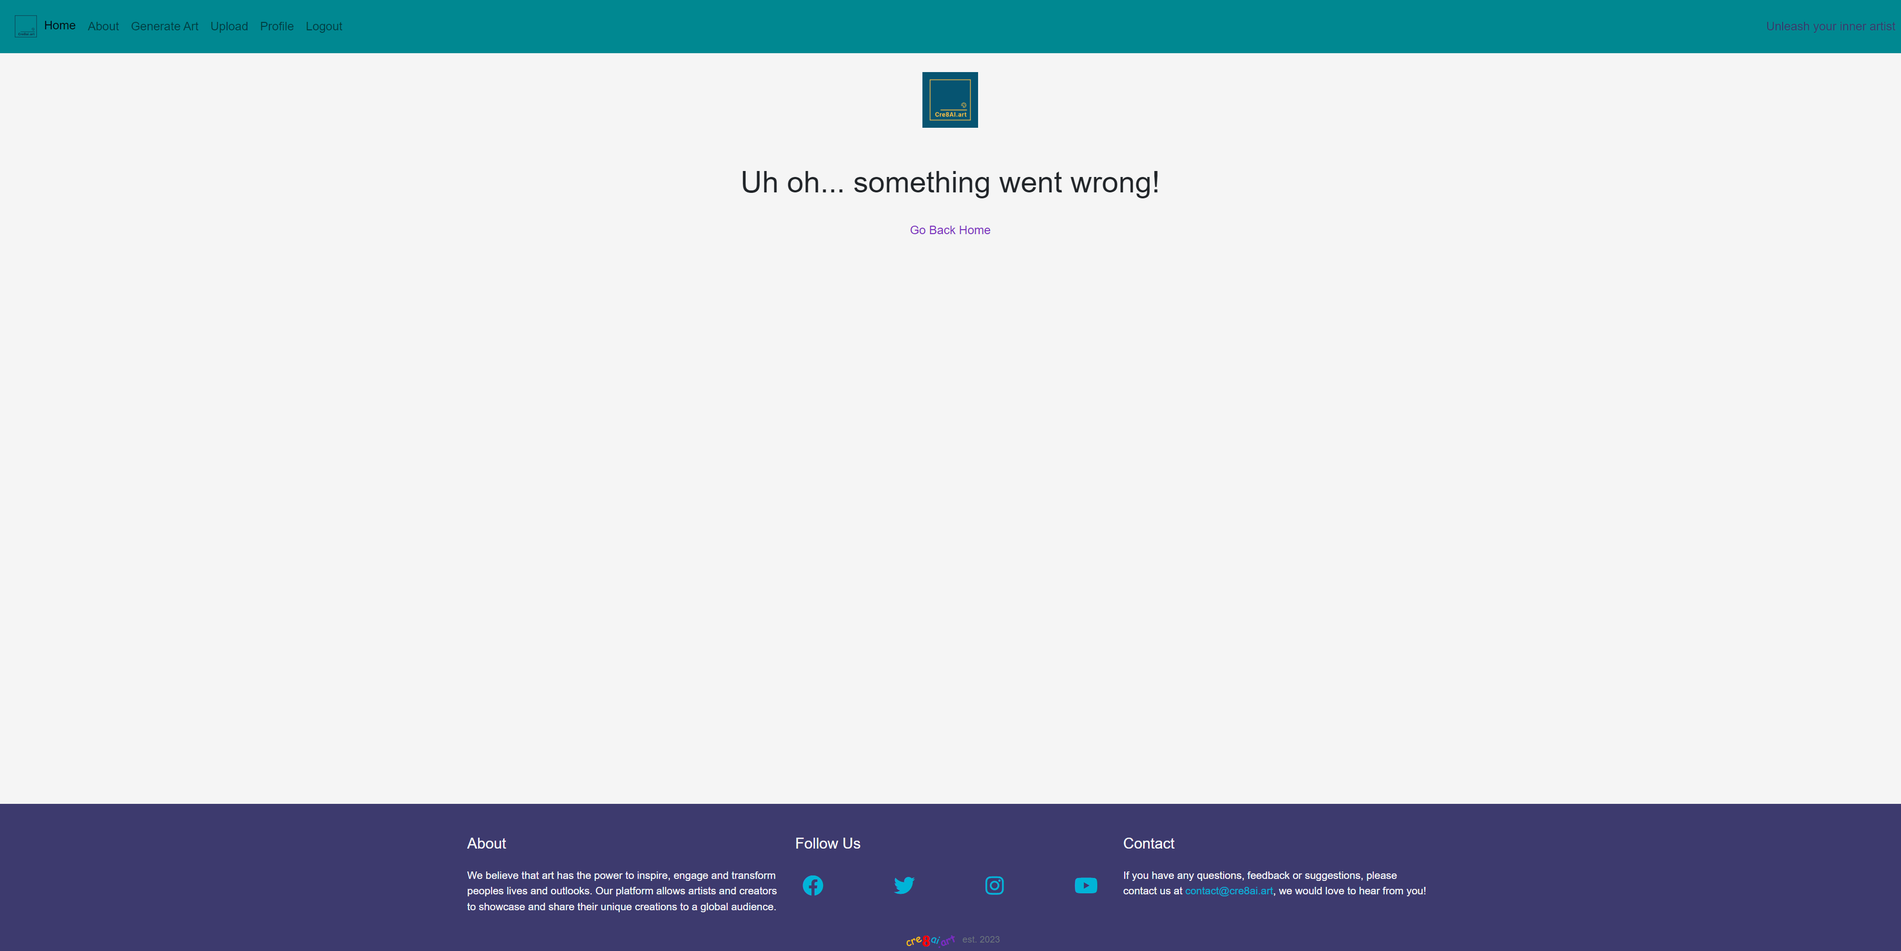
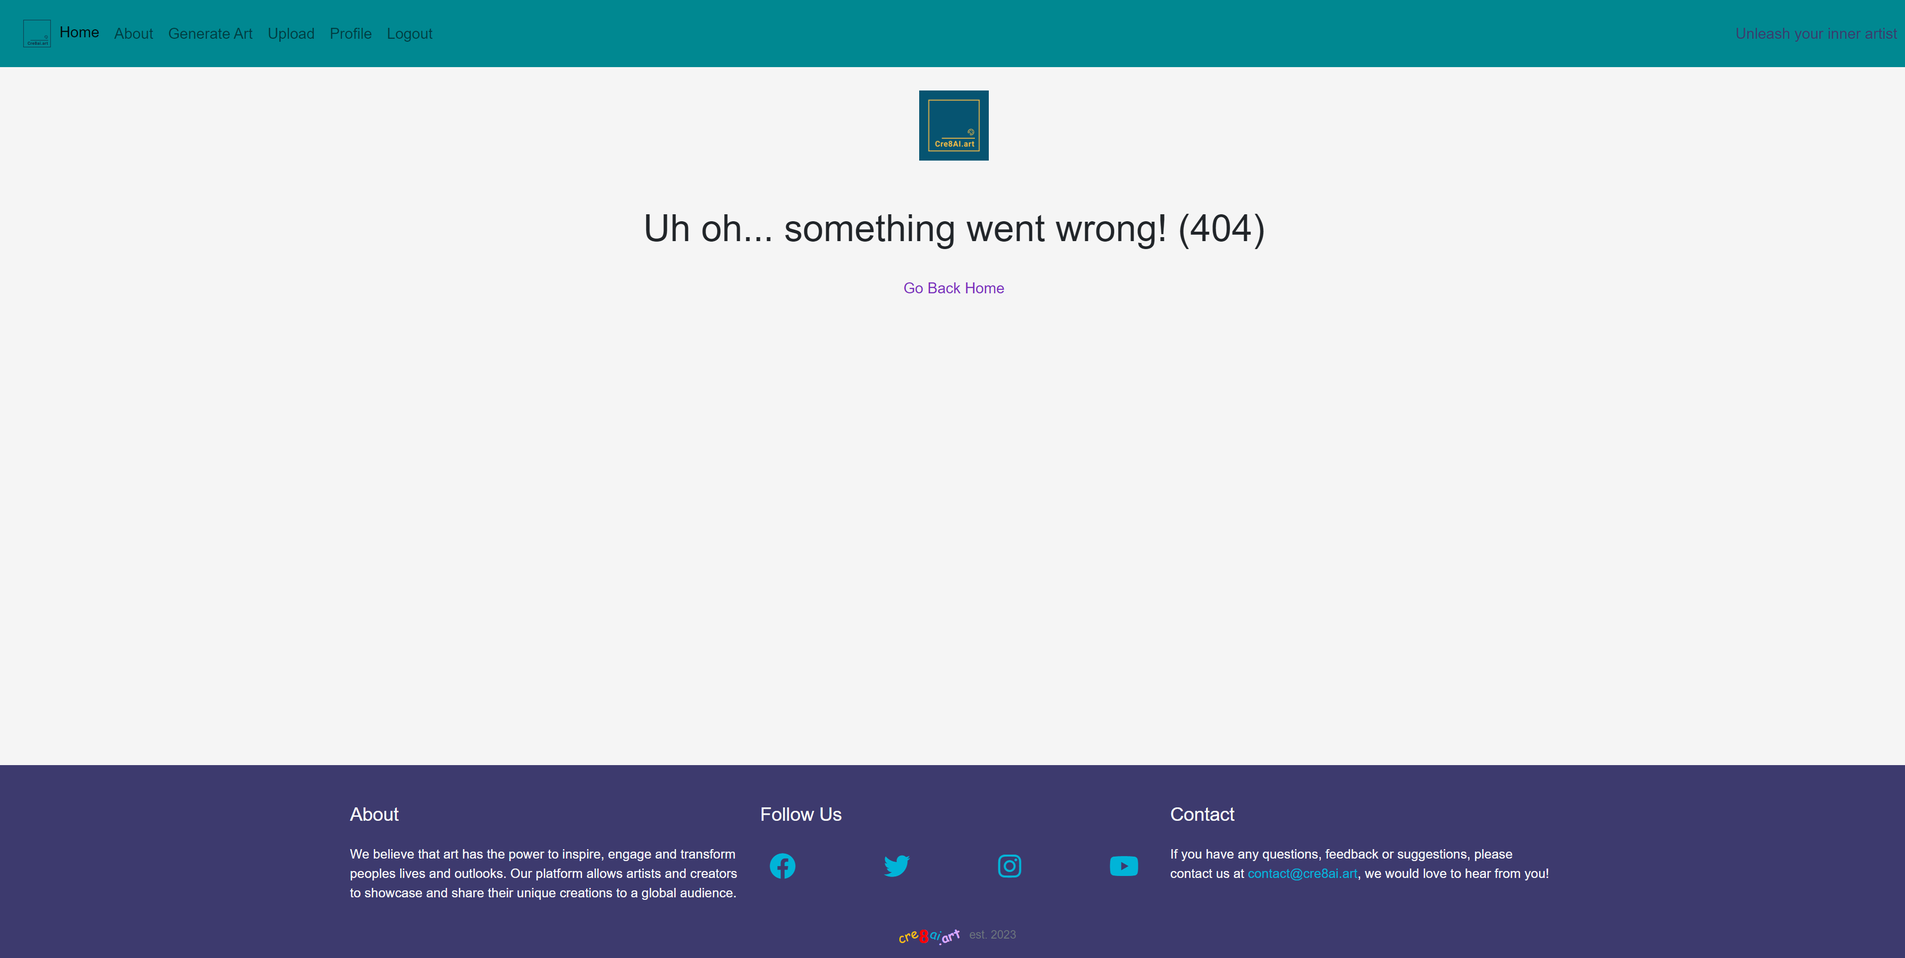
Add addtional testing to readme: Responsive and W3C

diff --git a/templates/user_profile.html b/templates/user_profile.html
@@ -44,9 +44,9 @@
                 {% for post in posts %}
                 {% if post.status == 1 %}
                 <div class="col-md-4 mb-3">
-                    <a href="{% url 'post_detail' post.slug %}">
-                        <img src="{{ post.post_image.url }}" alt="{{ post.title }}" class="img-thumbnail"
-                            oncontextmenu="return false;" aria-label="Go to {{ post.title }}">
+                    <a href="{% url 'post_detail' post.slug %}" aria-label="Go to {{ post.title }}">
+                        <img src="{{ post.post_image.url }}" alt="Image for {{ post.title }}" class="img-thumbnail"
+                            oncontextmenu="return false;">
                     </a>
                 </div>
                 {% endif %}
@@ -66,9 +66,9 @@
                 {% for post in posts %}
                 {% if post.status == 0 %}
                 <div class="col-md-4 mb-3">
-                    <a href="{% url 'post_private' post.slug %}">
-                        <img src="{{ post.post_image.url }}" alt="{{ post.title }}" class="img-thumbnail"
-                            oncontextmenu="return false;" aria-label="Go to {{ post.title }}">
+                    <a href="{% url 'post_private' post.slug %}" aria-label="Go to {{ post.title }}">
+                        <img src="{{ post.post_image.url }}" alt="Image for {{ post.title }}" class="img-thumbnail"
+                            oncontextmenu="return false;">
                     </a>
                 </div>
                 {% endif %}

diff --git a/templates/post_edit.html b/templates/post_edit.html
@@ -27,7 +27,8 @@
         <div class="col-md-12 card mb-4 mt-3 left top">
             <!-- Uploaded Image -->
             <div class="posted-image-container">
-                <img src="{{ post.post_image.url }}" class="posted-image" oncontextmenu="return false;">
+                <img src="{{ post.post_image.url }}" class="posted-image" oncontextmenu="return false;"
+                    alt="Image for {{ post.title }}">
             </div>
             <div class="card-body">
                 <!-- Current Post Description -->

diff --git a/templates/post_detail.html b/templates/post_detail.html
@@ -57,7 +57,8 @@
         <div class="col-md-12 card mb-4 mt-3 left top">
             <!-- Uploaded Image -->
             <div class="posted-image-container">
-                <img src="{{ post.post_image.url }}" class="posted-image" oncontextmenu="return false;">
+                <img src="{{ post.post_image.url }}" class="posted-image" oncontextmenu="return false;"
+                    alt="Image for {{ post.title }}">
             </div>
             <div class="card-body">
                 <!-- Image Description -->

diff --git a/ai_art/settings.py b/ai_art/settings.py
@@ -29,7 +29,7 @@ TEMPLATES_DIR = os.path.join(BASE_DIR, 'templates')
 SECRET_KEY = os.environ['SECRET_KEY']
 
 # SECURITY WARNING: don't run with debug turned on in production!
-DEBUG = True
+DEBUG = False
 
 X_FRAME_OPTIONS = 'SAMEORIGIN'
 

diff --git a/README.md b/README.md
@@ -563,109 +563,11 @@ You will need to import OpenAI and add the API key to your project.
 
 ### Custom Email Domain 📨 🌐
 
-<details> <summary>To avoid paying to use my custom web domain as an email domain, I found and followed the instructions in the following tutorial which explained how to set it up on Gmail for free: </summary> <img src="readme_images/setup/namecheapEmailPrices.png" style="max-width: 66%;"> </details>
+<details> <summary>To avoid paying to use the custom web domain as an email domain, I found and followed the instructions in the following tutorial which explained how to set it up on Gmail for free: </summary> <img src="readme_images/setup/namecheapEmailPrices.png" style="max-width: 66%;"> </details>
 
 | Link | Additional Set Up Requirements |
 | ---- | ------------------------------ |
 | [Youtube: Setting Up Free Custom Email Domain](https://www.youtube.com/watch?v=a322wIdQe4c) | Note the following required changes since this video was uploaded as described by Wiyre, the video uploader: _"For people watching this on June 2022 and up with authentification failed error, Less secure app Access is not available anymore, so here are the steps that worked for me: (1) you have to Go to Manage your Google Account - Security. (2) Then Enable 2-Step verifications. (3) Go to App password and select ''Mail'' and the device you are on (4) Click Generate and Note the password (it will show it only one time) (5) Go back to the login window where it says: ''Authentification failed, Please check...'' (6) Enter your login email, and as the password put the NEW PASSWORD google gave you on the App Password (7) Verify the code and voilà! Your done"_ |
-
----
-
-## Tests
-
-### Console
-
-I found no remaining console error during final testing.
-
-| **Page**     | **Picture**                                                                     |
-|--------------|---------------------------------------------------------------------------------|
-| **Home**     | ![Home](readme_images/tests/console/home.png)                                   |
-| **About**    | ![About](readme_images/tests/console/about.png)                                 |
-| **Generate** | ![Generate](readme_images/tests/console/generate.png)                           |
-| **Profile**  | ![Profile](readme_images/tests/console/profile.png)                             |
-| **Sign In**  | ![SignIn](readme_images/tests/console/signIn.png)                               |
-| **Sign Out** | ![SignOut](readme_images/tests/console/signOut.png)                             |
-| **Sign Up**  | ![SignUp](readme_images/tests/console/signUp.png)                               |
-| **Upload**   | ![Upload](readme_images/tests/console/upload.png)                               |
-
-
-### Lighthouse Tests
-
-Only minor errors remain. Accessibility could be easily improved by changing the colours for readability. Note, I made further updates to the Sign In, Sign Out and Sign Up pages to improve the below results but did not have a chance to retest.
-
-| **Page**         | **Performance** | **Accessibility** | **Best Practices** | **SEO**  | **Picture**                                                                                 |
-|------------------|-----------------|-------------------|--------------------|----------|---------------------------------------------------------------------------------------------|
-| **Home**         | 100             | 96                | 100                | 100      | ![Home](readme_images/tests/lighthouse/LDHome.png)                                          |
-| **About**        | 100             | 95                | 100                | 100      | ![About](readme_images/tests/lighthouse/LDAbout.png)                                        |
-| **Static**       | 100             | 92                | 100                | 100      | ![Static](readme_images/tests/lighthouse/LDStatic.png)                                      |
-| **Sign In**      | 100             | 96                | 100                | 100      | ![Sign In](readme_images/tests/lighthouse/LDSignIn.png)                                     |
-| **Sign Up**      | 100             | 96                | 100                | 90       | ![Sign Up](readme_images/tests/lighthouse/LDSignUp.png)                                     |
-| **Generate Art** | 100             | 96                | 100                | 100      | ![Generate Art](readme_images/tests/lighthouse/LDGenerateArt.png)                           |
-| **Upload**       | 100             | 96                | 100                | 100      | ![Upload](readme_images/tests/lighthouse/LDUpload.png)                                      |
-| **Profile**      | 96              | 95                | 100                | 100      | ![Profile](readme_images/tests/lighthouse/LDProfile.png)                                    |
-| **Sign Out**     | 100             | 95                | 100                | 100      | ![Sign Out](readme_images/tests/lighthouse/LDSignOut.png) 
-
-### Responsiveness Testing
-
-#### Visual Testing using Google Inspect
-
-| **Device**                   | **Width (px)** | **Height (px)** |
-|------------------------------|---------------|------------------|
-| **iPhone SE**                | 375           | 667              |
-| **iPhone XR**                | 414           | 896              |
-| **iPhone 12 Pro**            | 390           | 844              |
-| **Pixel 5**                  | 393           | 851              |
-| **Samsung Galaxy S8+**       | 360           | 740              |
-| **Samsung Galaxy S20 Ultra** | 412           | 915              |
-| **iPad Air**                 | 820           | 1180             |
-| **iPad Mini**                | 768           | 1024             |
-| **Surface Pro 7**            | 912           | 1368             |
-| **Galaxy Fold**              | 280           | 653              |
-| **Nest Hub**                 | 1024          | 600              |
-| **Nest Hub Max**             | 1280          | 800              |
-
-#### Visual Testing using AmIRepsponsive
-
-| **Device**  | **Width (px)** | **Height (px)** | **Scale** |
-|-------------|----------------|-----------------|-----------|
-| **Desktop** | 1600           | 992             | 0.3181    |
-| **Laptop**  | 1280           | 802             | 0.277     |
-| **Tablet**  | 768            | 1024            | 0.219     |
-| **Mobile**  | 320            | 480             | 0.219     |
-
-![Example](readme_images/tests/responsive/responsiveIndex.png)
-
-#### Visual Testing on Pyhsical Devices
-
-| **Device**                           | **Width (px)** | **Height (px)** |
-|--------------------------------------|----------------|-----------------|
-| **Dell Monitor - 24" (Portrait)**    | 1920           | 1200            |
-| **Dell Monitor - 27" (4k)**          | 3840           | 2160            |
-| **Samsung Galaxy S10 - 5.8"**        | 360            | 760             |
-
----
-
-## Bugs 🐛 🐌 🕷
-
-### Resolved Bugs ✅ 🐞
-
-| Bug | Fix |
-| --- | --- |
-| HTML code being displayed on the post previews | I used the striptags filter to remove the code tags |
-| Post titles and slugs too long | I set up truncating to reduce the length. |
-| Posts with same prompt generation not working | I set up a function to make each title and slug unique by adding a number to the end and incrimating by 1. |
-| Site went down and stopped working after deployment | This issue arose after setting up the custom domain but appeared to be unrelated to these changes. After investigating, it turned out the issue was caused by a blank post that did not have a slug, despite numerous tests, I was unable to recreate another Post without a Slug or Title. I rectified the issue by adding a filter to the index template to remove posts without slugs from being displayed which allowed the site to load but it showed an empty post on the index page, I then deleted the empty post via the admin panel. I carried out numerous tests to recreate the issue but was unable to. If an empty post was somehow raised again, it would not cause the same issue. |
-| Unable to create image generation with the same prompt as previously used | I adapted the code to add a number to the end of the public id, slug and title to ensure the values are unique, its then replaced and increases by one. |
-| LoginRequiredMixin wasn't working | To seolve the issue, I moved the LoginRequiredMixin to the leftmost position of each the class function inheritance lists where it was implemented. |
-| Console Problem: Line too long errors | I resolved these by splitting or reducing the length of comments for each line too long error. |
-| Console Problems: Trailing white spaces and too many / too little blank lines | I refactored these issues accordingly. |
-| Browser Console Problem on Posts and User Pages (when not the creator of the post / profile user): "Uncaught TypeError: Cannot read properties of null (reading 'addEventListener')" | I resolved this issue by adding if statements before the JS code to check the element exists |
-
-### Outstanding Bugs ❌ 🤔
-
-| Bug | Comments |
-| --- | --- |
-| When the user generates an image with the same prompt as an image generated prior to May, it may dispay the previous generated image on the users post instead of the newly generated images | This issue arose after I made adjustments to the Cloudinary Public Image IDs, this issue does not occur with duplicated generations where the orginal was created in May or after so I have left the bug present for now until I have more time to resolve. |
 
 ---
 
@@ -704,8 +606,122 @@ Only minor errors remain. Accessibility could be easily improved by changing the
 | Empty comment on a post                                    | Displays an error message and does not create the comment                                           | ✅    |
 | Edit a post with empty input                               | Displays an error message and does not update the post                                              | ✅    |
 | Update user profile with empty input                       | Displays an error message and does not update the user's profile                                    | ✅    |
+| Test 404, change the slug to an invalid slug               | Displays the 404 page                                                                               | ✅    |
 
 <details> <summary>Click here to see an example of an Error Message</summary> <img src="readme_images/features/errorMessage.png"> </details>
+
+<details> <summary>Click here to see the 404 Page</summary> <img src="readme_images/screenshots/404.png"> </details>
+
+### Console
+
+I found no remaining console error during final testing.
+
+| **Page**     | **Picture**                                                                     |
+|--------------|---------------------------------------------------------------------------------|
+| **Home**     | ![Home](readme_images/tests/console/home.png)                                   |
+| **About**    | ![About](readme_images/tests/console/about.png)                                 |
+| **Generate** | ![Generate](readme_images/tests/console/generate.png)                           |
+| **Profile**  | ![Profile](readme_images/tests/console/profile.png)                             |
+| **Sign In**  | ![SignIn](readme_images/tests/console/signIn.png)                               |
+| **Sign Out** | ![SignOut](readme_images/tests/console/signOut.png)                             |
+| **Sign Up**  | ![SignUp](readme_images/tests/console/signUp.png)                               |
+| **Upload**   | ![Upload](readme_images/tests/console/upload.png)                               |
+
+
+### Lighthouse Tests
+
+Only minor errors remain. Accessibility could be easily improved by changing the colours in the nav bar and footer for readability.
+
+Note, I made further updates to the Sign In, Sign Out and Sign Up pages to improve the below results but did not have a chance to retest.
+
+| **Page**         | **Performance** | **Accessibility** | **Best Practices** | **SEO**  | **Picture**                                                                                 |
+|------------------|-----------------|-------------------|--------------------|----------|---------------------------------------------------------------------------------------------|
+| **Home**         | 100             | 96                | 100                | 100      | ![Home](readme_images/tests/lighthouse/LDHome.png)                                          |
+| **About**        | 100             | 95                | 100                | 100      | ![About](readme_images/tests/lighthouse/LDAbout.png)                                        |
+| **Static**       | 100             | 92                | 100                | 100      | ![Static](readme_images/tests/lighthouse/LDStatic.png)                                      |
+| **Sign In**      | 100             | 96                | 100                | 100      | ![Sign In](readme_images/tests/lighthouse/LDSignIn.png)                                     |
+| **Sign Up**      | 100             | 96                | 100                | 90       | ![Sign Up](readme_images/tests/lighthouse/LDSignUp.png)                                     |
+| **Generate Art** | 100             | 96                | 100                | 100      | ![Generate Art](readme_images/tests/lighthouse/LDGenerateArt.png)                           |
+| **Upload**       | 100             | 96                | 100                | 100      | ![Upload](readme_images/tests/lighthouse/LDUpload.png)                                      |
+| **Profile**      | 96              | 95                | 100                | 100      | ![Profile](readme_images/tests/lighthouse/LDProfile.png)                                    |
+| **Sign Out**     | 100             | 95                | 100                | 100      | ![Sign Out](readme_images/tests/lighthouse/LDSignOut.png)                                   |
+| **Post**         | 97              | 95                | 100                | 100      | ![Post](readme_images/tests/lighthouse/LDPost.png)                                          |
+
+### W3C Validation Testing
+
+The W3C testing highlighed minor errors such as acouple of missing alt tags and one open span which I have since resolved. There are no issues remaining. 
+
+| **Page**     | **Picture**                                                                 |
+|--------------|-----------------------------------------------------------------------------|
+| **Home**     | ![Home](readme_images/tests/w3c/home.png)                                   |
+| **About**    | ![About](readme_images/tests/w3c/about.png)                                 |
+| **Static**   | ![Post](readme_images/tests/w3c/static.png)                                 |
+| **Profile**  | ![Profile](readme_images/tests/w3c/profile.png)                             |
+| **Sign In**  | ![SignIn](readme_images/tests/w3c/signIn.png)                               |
+| **Sign Up**  | ![SignUp](readme_images/tests/w3c/signUp.png)                               |
+| **Post**     | ![Post](readme_images/tests/w3c/post.png)                                   |
+
+### Responsiveness Testing
+
+#### Visual Testing using Google Inspect
+
+| **Device**                   | **Width (px)** | **Height (px)** |
+|------------------------------|---------------|------------------|
+| **iPhone SE**                | 375           | 667              |
+| **iPhone XR**                | 414           | 896              |
+| **iPhone 12 Pro**            | 390           | 844              |
+| **Pixel 5**                  | 393           | 851              |
+| **Samsung Galaxy S8+**       | 360           | 740              |
+| **Samsung Galaxy S20 Ultra** | 412           | 915              |
+| **iPad Air**                 | 820           | 1180             |
+| **iPad Mini**                | 768           | 1024             |
+| **Surface Pro 7**            | 912           | 1368             |
+| **Galaxy Fold**              | 280           | 653              |
+| **Nest Hub**                 | 1024          | 600              |
+| **Nest Hub Max**             | 1280          | 800              |
+
+#### Visual Testing using AmIRepsponsive
+
+| **Device**  | **Width (px)** | **Height (px)** | **Scale** |
+|-------------|----------------|-----------------|-----------|
+| **Desktop** | 1600           | 992             | 0.3181    |
+| **Laptop**  | 1280           | 802             | 0.277     |
+| **Tablet**  | 768            | 1024            | 0.219     |
+| **Mobile**  | 320            | 480             | 0.219     |
+
+<img src="readme_images/tests/responsive/responsiveIndex.png" style="max-width: 66%;">
+
+#### Visual Testing on Pyhsical Devices
+
+| **Device**                           | **Width (px)** | **Height (px)** |
+|--------------------------------------|----------------|-----------------|
+| **Dell Monitor - 24" (Portrait)**    | 1920           | 1200            |
+| **Dell Monitor - 27" (4k)**          | 3840           | 2160            |
+| **Samsung Galaxy S10 - 5.8"**        | 360            | 760             |
+
+---
+
+## Bugs 🐛 🐌 🕷
+
+### Resolved Bugs ✅ 🐞
+
+| Bug | Fix |
+| --- | --- |
+| HTML code being displayed on the post previews | I used the striptags filter to remove the code tags |
+| Post titles and slugs too long | I set up truncating to reduce the length. |
+| Posts with same prompt generation not working | I set up a function to make each title and slug unique by adding a number to the end and incrimating by 1. |
+| Site went down and stopped working after deployment | This issue arose after setting up the custom domain but appeared to be unrelated to these changes. After investigating, it turned out the issue was caused by a blank post that did not have a slug, despite numerous tests, I was unable to recreate another Post without a Slug or Title. I rectified the issue by adding a filter to the index template to remove posts without slugs from being displayed which allowed the site to load but it showed an empty post on the index page, I then deleted the empty post via the admin panel. I carried out numerous tests to recreate the issue but was unable to. If an empty post was somehow raised again, it would not cause the same issue. |
+| Unable to create image generation with the same prompt as previously used | I adapted the code to add a number to the end of the public id, slug and title to ensure the values are unique, its then replaced and increases by one. |
+| LoginRequiredMixin wasn't working | To seolve the issue, I moved the LoginRequiredMixin to the leftmost position of each the class function inheritance lists where it was implemented. |
+| Console Problem: Line too long errors | I resolved these by splitting or reducing the length of comments for each line too long error. |
+| Console Problems: Trailing white spaces and too many / too little blank lines | I refactored these issues accordingly. |
+| Browser Console Problem on Posts and User Pages (when not the creator of the post / profile user): "Uncaught TypeError: Cannot read properties of null (reading 'addEventListener')" | I resolved this issue by adding if statements before the JS code to check the element exists |
+
+### Outstanding Bugs ❌ 🤔
+
+| Bug | Comments |
+| --- | --- |
+| When the user generates an image with the same prompt as an image generated prior to May, it may dispay the previous generated image on the users post instead of the newly generated images | This issue arose after I made adjustments to the Cloudinary Public Image IDs, this issue does not occur with duplicated generations where the orginal was created in May or after so I have left the bug present for now until I have more time to resolve. |
 
 ---
 
